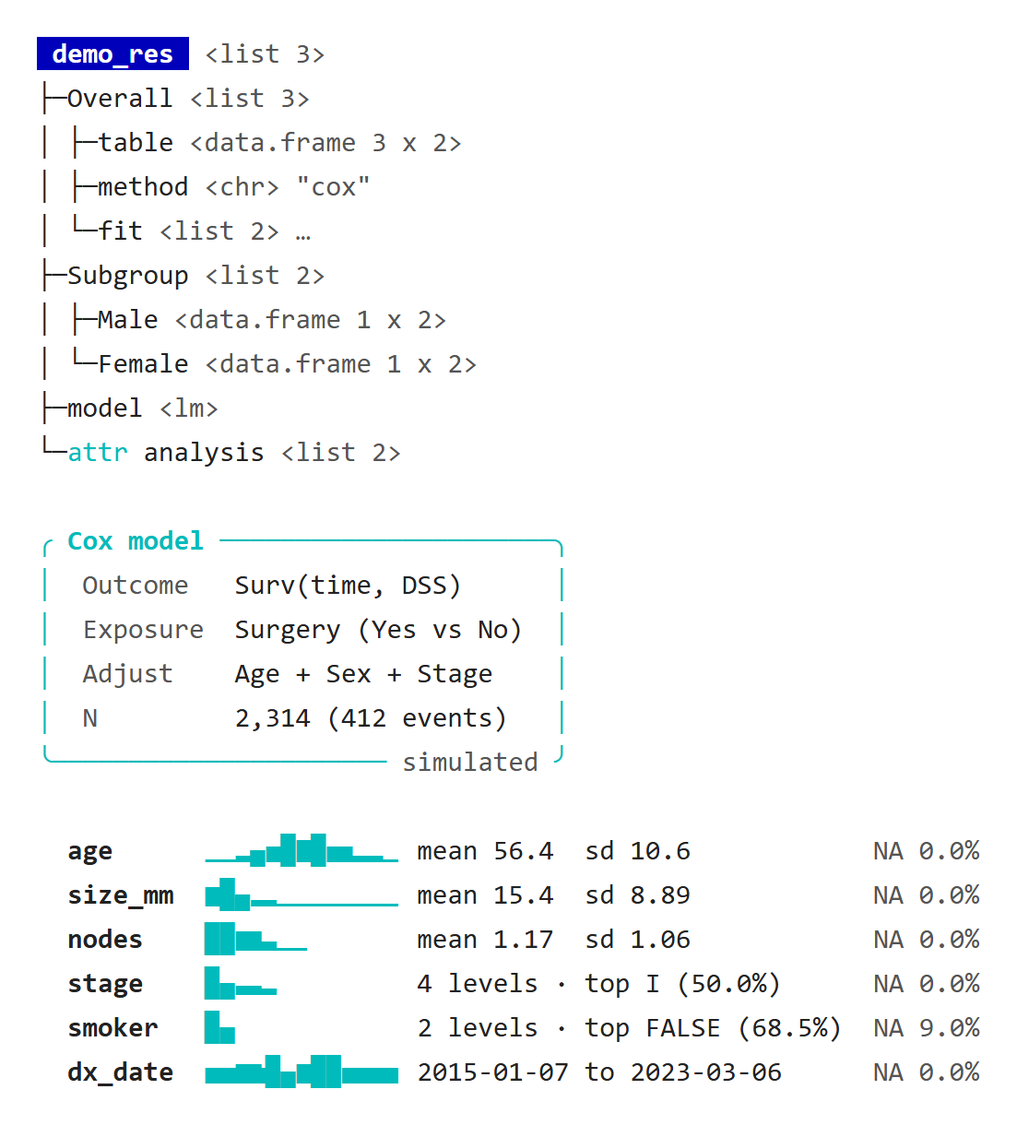
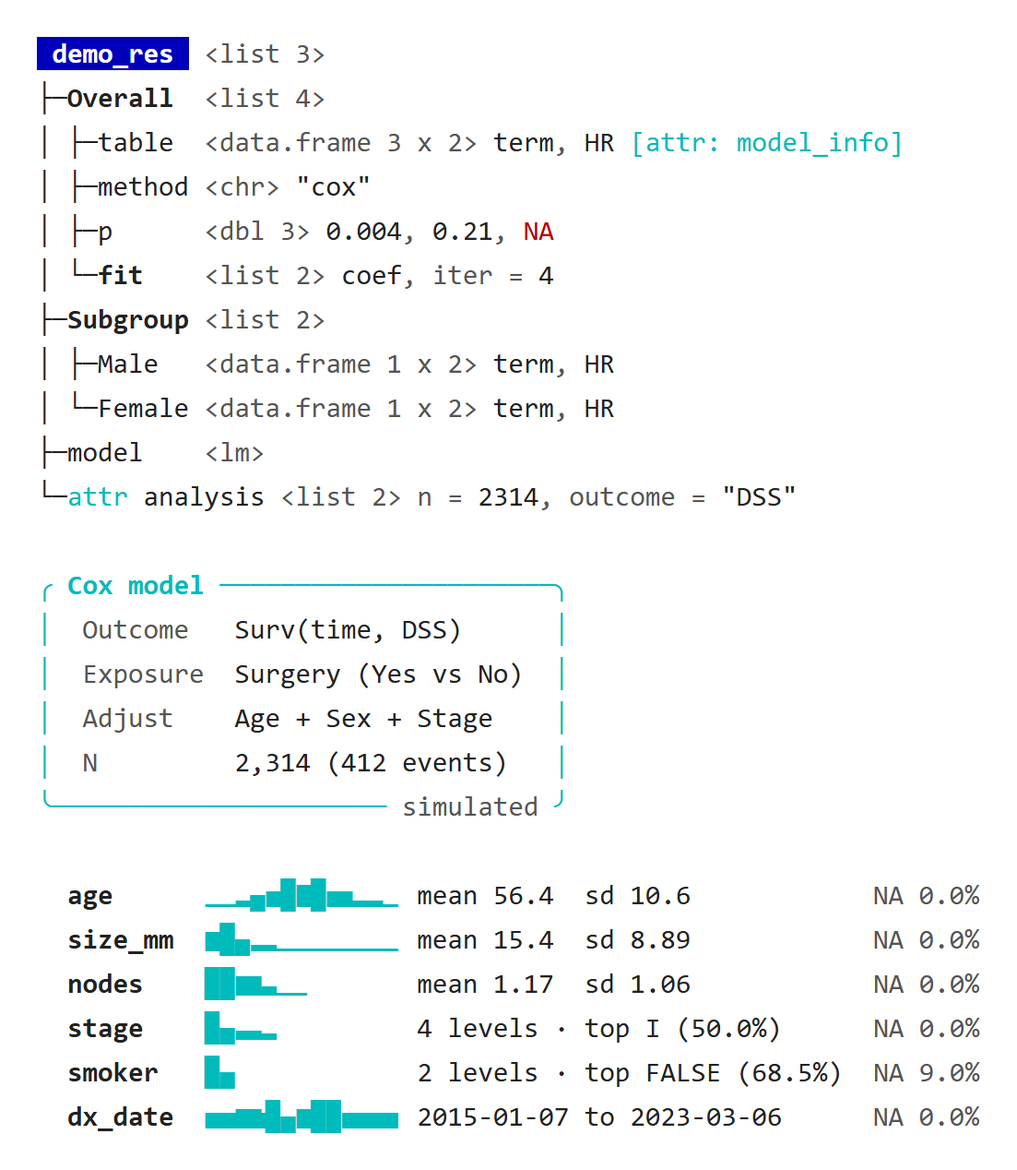
Bring the pr_tree() section up to UtilsR 0.6.12
The structure page still described a grey description, a 40-character
preview and an ellipsis for closed lists, and its screenshots showed the
0.6.10 output. The section now covers the opened root, column and list
previews, aligned names, value colours, vctrs types and attribute tags;
the example adds an attribute and a missing value, and both screenshots
are redone with UtilsR 0b59c82 (Windows and WSL plain output identical).
The section index and the homepage entry say so.

diff --git a/docs/console-print/structure-summary.html b/docs/console-print/structure-summary.html
@@ -1173,37 +1173,40 @@ pre > code.sourceCode > span > a:first-child::before { text-decoration: underlin
 <div class="code-copy-outer-scaffold"><div class="sourceCode" id="cb1"><pre class="sourceCode r code-with-copy"><code class="sourceCode r"><span id="cb1-1"><a href="#cb1-1" aria-hidden="true" tabindex="-1"></a><span class="fu">library</span>(UtilsR)</span>
 <span id="cb1-2"><a href="#cb1-2" aria-hidden="true" tabindex="-1"></a></span>
 <span id="cb1-3"><a href="#cb1-3" aria-hidden="true" tabindex="-1"></a>res <span class="ot">&lt;-</span> <span class="fu">structure</span>(</span>
-<span id="cb1-4"><a href="#cb1-4" aria-hidden="true" tabindex="-1"></a>  <span class="fu">list</span>(<span class="at">Overall =</span> <span class="fu">list</span>(<span class="at">table =</span> <span class="fu">data.frame</span>(<span class="at">term =</span> <span class="fu">c</span>(<span class="st">"Age"</span>, <span class="st">"Sex"</span>, <span class="st">"Stage"</span>),</span>
-<span id="cb1-5"><a href="#cb1-5" aria-hidden="true" tabindex="-1"></a>                                         <span class="at">HR =</span> <span class="fu">c</span>(<span class="fl">1.85</span>, <span class="fl">1.25</span>, <span class="fl">0.97</span>)),</span>
-<span id="cb1-6"><a href="#cb1-6" aria-hidden="true" tabindex="-1"></a>                      <span class="at">method =</span> <span class="st">"cox"</span>,</span>
-<span id="cb1-7"><a href="#cb1-7" aria-hidden="true" tabindex="-1"></a>                      <span class="at">fit =</span> <span class="fu">list</span>(<span class="at">coef =</span> <span class="fu">c</span>(<span class="fl">0.62</span>, <span class="fl">0.22</span>, <span class="sc">-</span><span class="fl">0.03</span>), <span class="at">iter =</span> <span class="dv">4</span>L)),</span>
-<span id="cb1-8"><a href="#cb1-8" aria-hidden="true" tabindex="-1"></a>       <span class="at">Subgroup =</span> <span class="fu">list</span>(<span class="at">Male =</span> <span class="fu">data.frame</span>(<span class="at">term =</span> <span class="st">"Age"</span>, <span class="at">HR =</span> <span class="fl">1.7</span>),</span>
-<span id="cb1-9"><a href="#cb1-9" aria-hidden="true" tabindex="-1"></a>                       <span class="at">Female =</span> <span class="fu">data.frame</span>(<span class="at">term =</span> <span class="st">"Age"</span>, <span class="at">HR =</span> <span class="fl">2.0</span>)),</span>
-<span id="cb1-10"><a href="#cb1-10" aria-hidden="true" tabindex="-1"></a>       <span class="at">model =</span> <span class="fu">lm</span>(mpg <span class="sc">~</span> wt, <span class="at">data =</span> mtcars)),</span>
-<span id="cb1-11"><a href="#cb1-11" aria-hidden="true" tabindex="-1"></a>  <span class="at">class =</span> <span class="fu">c</span>(<span class="st">"demo_res"</span>, <span class="st">"list"</span>),</span>
-<span id="cb1-12"><a href="#cb1-12" aria-hidden="true" tabindex="-1"></a>  <span class="at">analysis =</span> <span class="fu">list</span>(<span class="at">n =</span> <span class="dv">2314</span>L, <span class="at">outcome =</span> <span class="st">"DSS"</span>))</span>
-<span id="cb1-13"><a href="#cb1-13" aria-hidden="true" tabindex="-1"></a><span class="fu">pr_tree</span>(res, <span class="at">max_depth =</span> <span class="dv">2</span>)</span>
-<span id="cb1-14"><a href="#cb1-14" aria-hidden="true" tabindex="-1"></a></span>
-<span id="cb1-15"><a href="#cb1-15" aria-hidden="true" tabindex="-1"></a><span class="fu">pr_box</span>(<span class="fu">list</span>(<span class="at">Outcome =</span> <span class="st">"Surv(time, DSS)"</span>, <span class="at">Exposure =</span> <span class="st">"Surgery (Yes vs No)"</span>,</span>
-<span id="cb1-16"><a href="#cb1-16" aria-hidden="true" tabindex="-1"></a>            <span class="at">Adjust =</span> <span class="st">"Age + Sex + Stage"</span>, <span class="at">N =</span> <span class="st">"2,314 (412 events)"</span>),</span>
-<span id="cb1-17"><a href="#cb1-17" aria-hidden="true" tabindex="-1"></a>       <span class="at">header =</span> <span class="st">"Cox model"</span>, <span class="at">footer =</span> <span class="st">"simulated"</span>)</span>
-<span id="cb1-18"><a href="#cb1-18" aria-hidden="true" tabindex="-1"></a></span>
-<span id="cb1-19"><a href="#cb1-19" aria-hidden="true" tabindex="-1"></a><span class="fu">set.seed</span>(<span class="dv">1</span>)</span>
-<span id="cb1-20"><a href="#cb1-20" aria-hidden="true" tabindex="-1"></a>df <span class="ot">&lt;-</span> <span class="fu">data.frame</span>(</span>
-<span id="cb1-21"><a href="#cb1-21" aria-hidden="true" tabindex="-1"></a>  <span class="at">age     =</span> <span class="fu">round</span>(<span class="fu">rnorm</span>(<span class="dv">300</span>, <span class="dv">56</span>, <span class="dv">11</span>)),</span>
-<span id="cb1-22"><a href="#cb1-22" aria-hidden="true" tabindex="-1"></a>  <span class="at">size_mm =</span> <span class="fu">rlnorm</span>(<span class="dv">300</span>, <span class="fl">2.6</span>, <span class="fl">0.5</span>),</span>
-<span id="cb1-23"><a href="#cb1-23" aria-hidden="true" tabindex="-1"></a>  <span class="at">nodes   =</span> <span class="fu">rpois</span>(<span class="dv">300</span>, <span class="fl">1.2</span>),</span>
-<span id="cb1-24"><a href="#cb1-24" aria-hidden="true" tabindex="-1"></a>  <span class="at">stage   =</span> <span class="fu">factor</span>(<span class="fu">sample</span>(<span class="fu">c</span>(<span class="st">"I"</span>, <span class="st">"II"</span>, <span class="st">"III"</span>, <span class="st">"IV"</span>), <span class="dv">300</span>, <span class="cn">TRUE</span>, <span class="fu">c</span>(.<span class="dv">5</span>, .<span class="dv">25</span>, .<span class="dv">15</span>, .<span class="dv">1</span>))),</span>
-<span id="cb1-25"><a href="#cb1-25" aria-hidden="true" tabindex="-1"></a>  <span class="at">smoker  =</span> <span class="fu">sample</span>(<span class="fu">c</span>(<span class="cn">TRUE</span>, <span class="cn">FALSE</span>, <span class="cn">NA</span>), <span class="dv">300</span>, <span class="cn">TRUE</span>, <span class="fu">c</span>(.<span class="dv">3</span>, .<span class="dv">6</span>, .<span class="dv">1</span>)),</span>
-<span id="cb1-26"><a href="#cb1-26" aria-hidden="true" tabindex="-1"></a>  <span class="at">dx_date =</span> <span class="fu">as.Date</span>(<span class="st">"2015-01-01"</span>) <span class="sc">+</span> <span class="fu">sample</span>(<span class="dv">0</span><span class="sc">:</span><span class="dv">3000</span>, <span class="dv">300</span>))</span>
-<span id="cb1-27"><a href="#cb1-27" aria-hidden="true" tabindex="-1"></a><span class="fu">pr_spark</span>(df)</span></code></pre></div><button title="复制到剪贴板" class="code-copy-button"><i class="bi"></i></button></div>
+<span id="cb1-4"><a href="#cb1-4" aria-hidden="true" tabindex="-1"></a>  <span class="fu">list</span>(<span class="at">Overall =</span> <span class="fu">list</span>(<span class="at">table =</span> <span class="fu">structure</span>(</span>
+<span id="cb1-5"><a href="#cb1-5" aria-hidden="true" tabindex="-1"></a>                        <span class="fu">data.frame</span>(<span class="at">term =</span> <span class="fu">c</span>(<span class="st">"Age"</span>, <span class="st">"Sex"</span>, <span class="st">"Stage"</span>),</span>
+<span id="cb1-6"><a href="#cb1-6" aria-hidden="true" tabindex="-1"></a>                                   <span class="at">HR =</span> <span class="fu">c</span>(<span class="fl">1.85</span>, <span class="fl">1.25</span>, <span class="fl">0.97</span>)),</span>
+<span id="cb1-7"><a href="#cb1-7" aria-hidden="true" tabindex="-1"></a>                        <span class="at">model_info =</span> <span class="st">"Cox, adjusted"</span>),</span>
+<span id="cb1-8"><a href="#cb1-8" aria-hidden="true" tabindex="-1"></a>                      <span class="at">method =</span> <span class="st">"cox"</span>,</span>
+<span id="cb1-9"><a href="#cb1-9" aria-hidden="true" tabindex="-1"></a>                      <span class="at">p =</span> <span class="fu">c</span>(<span class="fl">0.004</span>, <span class="fl">0.21</span>, <span class="cn">NA</span>),</span>
+<span id="cb1-10"><a href="#cb1-10" aria-hidden="true" tabindex="-1"></a>                      <span class="at">fit =</span> <span class="fu">list</span>(<span class="at">coef =</span> <span class="fu">c</span>(<span class="fl">0.62</span>, <span class="fl">0.22</span>, <span class="sc">-</span><span class="fl">0.03</span>), <span class="at">iter =</span> <span class="dv">4</span>L)),</span>
+<span id="cb1-11"><a href="#cb1-11" aria-hidden="true" tabindex="-1"></a>       <span class="at">Subgroup =</span> <span class="fu">list</span>(<span class="at">Male =</span> <span class="fu">data.frame</span>(<span class="at">term =</span> <span class="st">"Age"</span>, <span class="at">HR =</span> <span class="fl">1.7</span>),</span>
+<span id="cb1-12"><a href="#cb1-12" aria-hidden="true" tabindex="-1"></a>                       <span class="at">Female =</span> <span class="fu">data.frame</span>(<span class="at">term =</span> <span class="st">"Age"</span>, <span class="at">HR =</span> <span class="fl">2.0</span>)),</span>
+<span id="cb1-13"><a href="#cb1-13" aria-hidden="true" tabindex="-1"></a>       <span class="at">model =</span> <span class="fu">lm</span>(mpg <span class="sc">~</span> wt, <span class="at">data =</span> mtcars)),</span>
+<span id="cb1-14"><a href="#cb1-14" aria-hidden="true" tabindex="-1"></a>  <span class="at">class =</span> <span class="fu">c</span>(<span class="st">"demo_res"</span>, <span class="st">"list"</span>),</span>
+<span id="cb1-15"><a href="#cb1-15" aria-hidden="true" tabindex="-1"></a>  <span class="at">analysis =</span> <span class="fu">list</span>(<span class="at">n =</span> <span class="dv">2314</span>L, <span class="at">outcome =</span> <span class="st">"DSS"</span>))</span>
+<span id="cb1-16"><a href="#cb1-16" aria-hidden="true" tabindex="-1"></a><span class="fu">pr_tree</span>(res, <span class="at">max_depth =</span> <span class="dv">2</span>)</span>
+<span id="cb1-17"><a href="#cb1-17" aria-hidden="true" tabindex="-1"></a></span>
+<span id="cb1-18"><a href="#cb1-18" aria-hidden="true" tabindex="-1"></a><span class="fu">pr_box</span>(<span class="fu">list</span>(<span class="at">Outcome =</span> <span class="st">"Surv(time, DSS)"</span>, <span class="at">Exposure =</span> <span class="st">"Surgery (Yes vs No)"</span>,</span>
+<span id="cb1-19"><a href="#cb1-19" aria-hidden="true" tabindex="-1"></a>            <span class="at">Adjust =</span> <span class="st">"Age + Sex + Stage"</span>, <span class="at">N =</span> <span class="st">"2,314 (412 events)"</span>),</span>
+<span id="cb1-20"><a href="#cb1-20" aria-hidden="true" tabindex="-1"></a>       <span class="at">header =</span> <span class="st">"Cox model"</span>, <span class="at">footer =</span> <span class="st">"simulated"</span>)</span>
+<span id="cb1-21"><a href="#cb1-21" aria-hidden="true" tabindex="-1"></a></span>
+<span id="cb1-22"><a href="#cb1-22" aria-hidden="true" tabindex="-1"></a><span class="fu">set.seed</span>(<span class="dv">1</span>)</span>
+<span id="cb1-23"><a href="#cb1-23" aria-hidden="true" tabindex="-1"></a>df <span class="ot">&lt;-</span> <span class="fu">data.frame</span>(</span>
+<span id="cb1-24"><a href="#cb1-24" aria-hidden="true" tabindex="-1"></a>  <span class="at">age     =</span> <span class="fu">round</span>(<span class="fu">rnorm</span>(<span class="dv">300</span>, <span class="dv">56</span>, <span class="dv">11</span>)),</span>
+<span id="cb1-25"><a href="#cb1-25" aria-hidden="true" tabindex="-1"></a>  <span class="at">size_mm =</span> <span class="fu">rlnorm</span>(<span class="dv">300</span>, <span class="fl">2.6</span>, <span class="fl">0.5</span>),</span>
+<span id="cb1-26"><a href="#cb1-26" aria-hidden="true" tabindex="-1"></a>  <span class="at">nodes   =</span> <span class="fu">rpois</span>(<span class="dv">300</span>, <span class="fl">1.2</span>),</span>
+<span id="cb1-27"><a href="#cb1-27" aria-hidden="true" tabindex="-1"></a>  <span class="at">stage   =</span> <span class="fu">factor</span>(<span class="fu">sample</span>(<span class="fu">c</span>(<span class="st">"I"</span>, <span class="st">"II"</span>, <span class="st">"III"</span>, <span class="st">"IV"</span>), <span class="dv">300</span>, <span class="cn">TRUE</span>, <span class="fu">c</span>(.<span class="dv">5</span>, .<span class="dv">25</span>, .<span class="dv">15</span>, .<span class="dv">1</span>))),</span>
+<span id="cb1-28"><a href="#cb1-28" aria-hidden="true" tabindex="-1"></a>  <span class="at">smoker  =</span> <span class="fu">sample</span>(<span class="fu">c</span>(<span class="cn">TRUE</span>, <span class="cn">FALSE</span>, <span class="cn">NA</span>), <span class="dv">300</span>, <span class="cn">TRUE</span>, <span class="fu">c</span>(.<span class="dv">3</span>, .<span class="dv">6</span>, .<span class="dv">1</span>)),</span>
+<span id="cb1-29"><a href="#cb1-29" aria-hidden="true" tabindex="-1"></a>  <span class="at">dx_date =</span> <span class="fu">as.Date</span>(<span class="st">"2015-01-01"</span>) <span class="sc">+</span> <span class="fu">sample</span>(<span class="dv">0</span><span class="sc">:</span><span class="dv">3000</span>, <span class="dv">300</span>))</span>
+<span id="cb1-30"><a href="#cb1-30" aria-hidden="true" tabindex="-1"></a><span class="fu">pr_spark</span>(df)</span></code></pre></div><button title="复制到剪贴板" class="code-copy-button"><i class="bi"></i></button></div>
 <div class="tabset-margin-container"></div><div class="panel-tabset">
 <ul class="nav nav-tabs" role="tablist"><li class="nav-item" role="presentation"><a class="nav-link active" id="tabset-1-1-tab" data-bs-toggle="tab" data-bs-target="#tabset-1-1" role="tab" aria-controls="tabset-1-1" aria-selected="true" href="" aria-current="page">彩色终端</a></li><li class="nav-item" role="presentation"><a class="nav-link" id="tabset-1-2-tab" data-bs-toggle="tab" data-bs-target="#tabset-1-2" role="tab" aria-controls="tabset-1-2" aria-selected="false" href="">无色日志</a></li></ul>
 <div class="tab-content">
 <div id="tabset-1-1" class="tab-pane active" role="tabpanel" aria-labelledby="tabset-1-1-tab">
 <div class="quarto-figure quarto-figure-center">
 <figure class="figure">
-<p><img src="images/structure-color.png" class="img-fluid figure-img" alt="上部是以蓝底 demo_res 为根的结构树，列出 Overall、Subgroup、model 和青色 attr analysis，fit 后有省略号；中部是青色圆角框，顶边写 Cox model、底边写 simulated，框内四行键值；下部是六列的青色迷你分布条，右侧为均值与标准差、水平数与最多水平或日期范围，最右为缺失比例。" loading="lazy" decoding="async" width="1103" height="1220" srcset="../assets/figure-previews/40d56f7a3e6ced7307cc08a0e84da2a6.webp"></p>
+<p><img src="images/structure-color.png" class="img-fluid figure-img" alt="上部是以蓝底 demo_res 为根的结构树：同层名字对齐，Overall、Subgroup 和 fit 加粗；table 后列出列名 term、HR，行尾为青色 attr: model_info；p 的缺失值 NA 为红色；fit 预览为 coef, iter = 4；末行青色 attr analysis 预览 n = 2314 与 outcome。中部是青色圆角框，顶边写 Cox model、底边写 simulated，框内四行键值；下部是六列的青色迷你分布条，右侧为均值与标准差、水平数与最多水平或日期范围，最右为缺失比例。" loading="lazy" decoding="async" width="1103" height="1268" srcset="../assets/figure-previews/fc579bac2a26df2f248ff8681e9c3dc2.webp"></p>
 <figcaption>结构树、摘要框和迷你分布的彩色输出。</figcaption>
 </figure>
 </div>
@@ -1212,7 +1215,7 @@ pre > code.sourceCode > span > a:first-child::before { text-decoration: underlin
 <div id="tabset-1-2" class="tab-pane" role="tabpanel" aria-labelledby="tabset-1-2-tab">
 <div class="quarto-figure quarto-figure-center">
 <figure class="figure">
-<p><img src="images/structure-plain.png" class="img-fluid figure-img" alt="同一示例的无色输出，根节点为 尖括号包住的 demo_res 与 list 3，树线、圆角框和分布条的字符不变。" loading="lazy" decoding="async" width="1101" height="1213" srcset="../assets/figure-previews/7c23a5c4a6c145d9ca498879b4b8d3b1.webp"></p>
+<p><img src="images/structure-plain.png" class="img-fluid figure-img" alt="同一示例的无色输出，根节点为尖括号包住的 demo_res 与 list 3；名字的对齐、树线、圆角框和分布条的字符不变。" loading="lazy" decoding="async" width="1101" height="1261" srcset="../assets/figure-previews/d3c40d0bc7c678cc0c85cdaae5e1597c.webp"></p>
 <figcaption>无色输出：根节点写成尖括号类名。</figcaption>
 </figure>
 </div>
@@ -1220,17 +1223,19 @@ pre > code.sourceCode > span > a:first-child::before { text-decoration: underlin
 </div>
 </div>
 </div>
-<p>示例的内容都不长，40 列时的输出与 80 列相同。<code>pr_box()</code> 的内容超出宽度时会折行；<code>pr_tree()</code> 和 <code>pr_spark()</code> 不折行。</p>
+<p>40 列时，<code>pr_tree()</code> 按剩余宽度截短预览，放不下的行以省略号结尾；<code>pr_box()</code> 的内容超出宽度时会折行；<code>pr_spark()</code> 不折行，输出与 80 列相同。</p>
 </section>
 <section id="pr-tree" class="level2">
 <h2 class="anchored" data-anchor-id="pr-tree">pr_tree()：结构树</h2>
-<p><code>pr_tree(x, max_depth = 3, max_items = 20, max_lines = 200, attrs = TRUE)</code> 把列表形式的结果画成树，每个元素后面跟一句灰色描述，比 <code>str()</code> 更容易看清嵌套结果的组成。</p>
+<p><code>pr_tree(x, max_depth = 3, max_items = 20, max_lines = 200, attrs = TRUE)</code> 把列表形式的结果画成树，每个元素后面跟一句描述，比 <code>str()</code> 更容易看清嵌套结果的组成。以下按 UtilsR 0.6.12（<code>0b59c82</code>）的输出，除截断提速外都是 0.6.12 新改的写法。</p>
 <ul>
-<li>会展开普通列表，以及同时继承 <code>"list"</code> 的类对象（如 <code>c("eff_res", "list")</code>）。数据框、模型、图形等其他对象作为叶子，只写类型和大小，例如 <code>&lt;data.frame 3 x 2&gt;</code>、<code>&lt;lm&gt;</code>。</li>
-<li>原子向量写出类型、长度和前几个值，如 <code>&lt;chr&gt; "cox"</code>、<code>&lt;chr 3&gt; "Age", "Sex", "Stage"</code>：最多取前 10 个值，预览截到 40 个字符。</li>
-<li><code>max_depth</code> 控制展开的层数；停在这一层、还没展开的列表后面加省略号，示例里的 <code>fit</code> 就是这样。</li>
-<li>每个节点最多列 <code>max_items</code> 个元素，其余写成 <code>… n more</code>；整棵树最多 <code>max_lines</code> 行，超出的行数写在末尾。到了 <code>max_lines</code> 后只计数、不再描述，层层嵌套的大列表也能马上打出前几行（0.6.12 起；20 × 20 × 20 的列表打印 200 行从 2.5 s 降到 0.07 s）。</li>
-<li><code>attrs = TRUE</code> 时，除名称、类、维度、行名和 srcref 以外的属性也列出来，标为青色 <code>attr</code>，示例里的 <code>analysis</code> 就是属性。</li>
+<li>传入的对象本身总是展开：<code>pr_tree(fit)</code> 列出模型的各个组件，数据框列出各列，S4 对象列出各个槽（写成 <code>@name</code>）。再往下只展开普通列表，以及同时继承 <code>"list"</code> 的类对象（如 <code>c("eff_res", "list")</code>）；数据框、模型、图形等其他对象作为叶子，例如示例里的 <code>&lt;lm&gt;</code>。</li>
+<li>原子向量写出类型、长度和值，如 <code>&lt;chr&gt; "cox"</code>、<code>&lt;dbl 3&gt; 0.004, 0.21, NA</code>：整数照原样，小数取 3 位有效数字但保留整数部分（<code>1234.5678</code> 写成 <code>1235</code>）。有名字的向量写成 <code>train = 800, test = 200</code>，带值标签的写成 <code>1 [Male]</code>，因子注明水平数，如 <code>&lt;fct 4, 3 levels&gt;</code>。值显示到行尾为止，取不完时以省略号结尾。</li>
+<li>类型缩写与 vctrs 一致，如 <code>&lt;drtn 2&gt;</code>（时间差）、<code>&lt;dbl+lbl 3&gt;</code>（带值标签的向量）、<code>&lt;int matrix 2 x 3&gt;</code>；公式、调用写出原文，函数写出前 4 个参数，如 <code>&lt;fn(data, formula, ...)&gt;</code>。</li>
+<li>不展开的节点也预览内容：数据框列出列名（示例的 <code>table</code>）；列表列出元素名，单个原子值写出取值（示例的 <code>fit</code> 写成 <code>coef, iter = 4</code>），没有名字的列表才只加省略号。</li>
+<li>同一层的名字补齐到同一宽度（最多 18 个字符），描述从同一列开始。类型和大小是灰色，值用正常文字色，<code>NA</code> 标红，有子节点的名字加粗。</li>
+<li><code>max_depth</code> 控制展开的层数。每个节点最多列 <code>max_items</code> 个元素，其余写成 <code>… n more: e6, e7, …</code>，列出被略过的名字；整棵树最多 <code>max_lines</code> 行，末尾写明剩下的行数和截断它的参数，如 <code># … 340 more lines (max_lines = 200)</code>。到了 <code>max_lines</code> 后只计数、不再描述，层层嵌套的大列表也能马上打出前几行（20 × 20 × 20 的列表打印 200 行从 2.5 s 降到 0.07 s）。</li>
+<li><code>attrs = TRUE</code> 时，除名称、类、维度、行名、srcref 和类型自带的属性（因子水平、时区、值标签等）以外，其余属性都会标出：展开的节点下另起一行，标为青色 <code>attr</code>，同样预览名字和单值（示例的 <code>analysis</code>）；不展开的节点在行尾写 <code>[attr: 名字]</code>（示例的 <code>model_info</code>），如图形上的 <code>[attr: plot_size]</code>。</li>
 </ul>
 </section>
 <section id="pr-box" class="level2">
@@ -1314,6 +1319,7 @@ pre > code.sourceCode > span > a:first-child::before { text-decoration: underlin
 <div class="callout-body-container callout-body">
 <ul>
 <li>2026-10-25：按 UtilsR 0.6.12 补充 <a href="#pr-tree">pr_tree()</a> 截断提速、<a href="#pr-box">pr_box()</a> 空输入与 <a href="#pr-spark">pr_spark()</a> 标识列。</li>
+<li>2026-10-25：按 UtilsR 0.6.12（<code>0b59c82</code>）重写 <a href="#pr-tree">pr_tree()</a> 的说明；示例加入属性与缺失值，重做截图。</li>
 </ul>
 </div>
 </div>

diff --git a/docs/index.html b/docs/index.html
@@ -1752,7 +1752,7 @@ ul.task-list li input[type="checkbox"] {
 <td style="text-align: left;">打印信息</td>
 <td style="text-align: left;">2026-10-25</td>
 </tr>
-<tr class="even" data-keywords="Surgery Surv as.Date c data.frame factor library list lm pr_box pr_kv pr_spark pr_tree rlnorm rnorm round rpois sample set.seed str structure">
+<tr class="even" data-keywords="Surgery Surv as.Date c data.frame factor fn library lines list lm pr_box pr_kv pr_spark pr_tree rlnorm rnorm round rpois sample set.seed str structure">
 <td style="text-align: left;">打印信息</td>
 <td style="text-align: left;"><a href="./console-print/structure-summary.html">结构树、摘要框与分布：pr_tree / pr_box / pr_spark</a></td>
 <td style="text-align: left;">打印信息</td>
@@ -1789,7 +1789,7 @@ ul.task-list li input[type="checkbox"] {
 <section id="recent-updates" class="level2 unnumbered">
 <h2 class="unnumbered anchored" data-anchor-id="recent-updates">近期更新</h2>
 <ul>
-<li><strong>2026-10-25</strong>：新增<a href="./console-print/index.html">打印信息</a>栏目，与 R 问题排查并列：分 8 页说明 UtilsR 的 <code>pr_*</code> 结果打印构件、<a href="./console-print/table-pvalue.html"><code>pr_table()</code> 的 P 值与省略规则</a>、<a href="./console-print/runtime-messages.html"><code>.cat_message()</code> / <code>.cat_step()</code> 运行提示</a>、<a href="./console-print/package-print-methods.html">各包结果类的打印</a>、<a href="./console-print/write-print-method.html">编写 print 方法与测试</a>和<a href="./console-print/display-issues.html">常见显示问题</a>；示例在 Windows / WSL R 4.4.3 运行，各包实例仅在 Windows 运行。当天随 UtilsR 0.6.12 修订：<code>timestamp_format = NULL</code> / <code>""</code> 不加时间戳，<a href="./console-print/table-pvalue.html#width"><code>pr_table()</code></a> 的临界 P 值、<code>rownames</code> 与首列截短，<code>pr_kv()</code> / <code>pr_head()</code> 的数字位数，<code>pr_note()</code> 换行和 <code>pr_spark()</code> 标识列。</li>
+<li><strong>2026-10-25</strong>：新增<a href="./console-print/index.html">打印信息</a>栏目，与 R 问题排查并列：分 8 页说明 UtilsR 的 <code>pr_*</code> 结果打印构件、<a href="./console-print/table-pvalue.html"><code>pr_table()</code> 的 P 值与省略规则</a>、<a href="./console-print/runtime-messages.html"><code>.cat_message()</code> / <code>.cat_step()</code> 运行提示</a>、<a href="./console-print/package-print-methods.html">各包结果类的打印</a>、<a href="./console-print/write-print-method.html">编写 print 方法与测试</a>和<a href="./console-print/display-issues.html">常见显示问题</a>；示例在 Windows / WSL R 4.4.3 运行，各包实例仅在 Windows 运行。当天随 UtilsR 0.6.12 修订：<code>timestamp_format = NULL</code> / <code>""</code> 不加时间戳，<a href="./console-print/table-pvalue.html#width"><code>pr_table()</code></a> 的临界 P 值、<code>rownames</code> 与首列截短，<code>pr_kv()</code> / <code>pr_head()</code> 的数字位数，<code>pr_note()</code> 换行和 <code>pr_spark()</code> 标识列；<a href="./console-print/structure-summary.html#pr-tree"><code>pr_tree()</code></a> 改为展开传入的对象、预览列名与列表内容、对齐名字并把值与类型分色。</li>
 <li><strong>2026-10-25</strong>：<a href="./utilsr/flow-guide.html#distribution-lists-20261025">分布图</a>迁移到五组 list 控制，补齐 labelled 显示、标签换行与堆积顺序；<a href="./regr/flow-guide.html#all-preprocess-20261024">get_all 队列流程</a>同步新参数，保留逐步人数核对。</li>
 <li><strong>2026-10-25</strong>：<a href="./utilsr/factor-guide.html#zero-reference-20261025">因子</a>与<a href="./regr/interaction-guide.html#reference-print-20261025">交互</a>明确数值 ref_idx=0 不合并，多水平分层与二分类暴露限制分别说明；<a href="./utilsr/missing-guide.html#environment-20261025">环境诊断</a>更新 check_packages 名称、失败 Total、实时可用内存和 GiB 单位。</li>
 <li><strong>2026-10-25</strong>：<a href="./mlr/imp-guide.html#labels-shares-20261025">MLR 重要性</a>新增六张原生 PDF，比较 label_args 换行、Top N 完整分母和先缩放再重排；<a href="./mlr/index.html#updates-20261025">概览</a>同步当前 38 张图。</li>

diff --git a/console-print/images/structure-color.html b/console-print/images/structure-color.html
@@ -1,13 +1,14 @@
 <!doctype html><meta charset="utf-8"><style>body{margin:0;background:white;color:#222}pre{margin:0;padding:20px;font:15px/1.6 Consolas,"DejaVu Sans Mono",monospace;white-space:pre;display:inline-block}.w1,.w2{display:inline-block;vertical-align:top}.w1{width:1ch}.w2{width:2ch}</style><pre data-native-console><span style='color: #FFFFFF; background-color: #0000BB; font-weight: bold;'> demo_res </span> <span style='color: #555555;'>&lt;list 3&gt;</span>
-├─Overall <span style='color: #555555;'>&lt;list 3&gt;</span>
-│ ├─table <span style='color: #555555;'>&lt;data.frame 3 x 2&gt;</span>
-│ ├─method <span style='color: #555555;'>&lt;chr&gt; "cox"</span>
-│ └─fit <span style='color: #555555;'>&lt;list 2&gt;</span> <span style='color: #555555;'><span class="w1">…</span></span>
-├─Subgroup <span style='color: #555555;'>&lt;list 2&gt;</span>
-│ ├─Male <span style='color: #555555;'>&lt;data.frame 1 x 2&gt;</span>
-│ └─Female <span style='color: #555555;'>&lt;data.frame 1 x 2&gt;</span>
-├─model <span style='color: #555555;'>&lt;lm&gt;</span>
-└─<span style='color: #00BBBB;'>attr</span> analysis <span style='color: #555555;'>&lt;list 2&gt;</span>
+├─<span style='font-weight: bold;'>Overall</span>  <span style='color: #555555;'>&lt;list 4&gt;</span>
+│ ├─table  <span style='color: #555555;'>&lt;data.frame 3 x 2&gt;</span> term<span style='color: #555555;'>, </span>HR <span style='color: #00BBBB;'>[attr: model_info]</span>
+│ ├─method <span style='color: #555555;'>&lt;chr&gt;</span> "cox"
+│ ├─p      <span style='color: #555555;'>&lt;dbl 3&gt;</span> 0.004<span style='color: #555555;'>, </span>0.21<span style='color: #555555;'>, </span><span style='color: #BB0000;'>NA</span>
+│ └─<span style='font-weight: bold;'>fit</span>    <span style='color: #555555;'>&lt;list 2&gt;</span> coef<span style='color: #555555;'>, iter =</span> 4
+├─<span style='font-weight: bold;'>Subgroup</span> <span style='color: #555555;'>&lt;list 2&gt;</span>
+│ ├─Male   <span style='color: #555555;'>&lt;data.frame 1 x 2&gt;</span> term<span style='color: #555555;'>, </span>HR
+│ └─Female <span style='color: #555555;'>&lt;data.frame 1 x 2&gt;</span> term<span style='color: #555555;'>, </span>HR
+├─model    <span style='color: #555555;'>&lt;lm&gt;</span>
+└─<span style='color: #00BBBB;'>attr</span> analysis <span style='color: #555555;'>&lt;list 2&gt;</span> <span style='color: #555555;'>n =</span> 2314<span style='color: #555555;'>, outcome =</span> "DSS"
 
 <span style='color: #00BBBB;'>╭ </span><span style='color: #00BBBB; font-weight: bold;'>Cox model</span><span style='color: #00BBBB;'> ──────────────────────╮</span>
 <span style='color: #00BBBB;'>│</span>  <span style='color: #555555;'>Outcome </span>  Surv(time, DSS)      <span style='color: #00BBBB;'>│</span>

diff --git a/docs/console-print/images/structure-color.html b/docs/console-print/images/structure-color.html
@@ -1,13 +1,14 @@
 <!doctype html><meta charset="utf-8"><style>body{margin:0;background:white;color:#222}pre{margin:0;padding:20px;font:15px/1.6 Consolas,"DejaVu Sans Mono",monospace;white-space:pre;display:inline-block}.w1,.w2{display:inline-block;vertical-align:top}.w1{width:1ch}.w2{width:2ch}</style><pre data-native-console><span style='color: #FFFFFF; background-color: #0000BB; font-weight: bold;'> demo_res </span> <span style='color: #555555;'>&lt;list 3&gt;</span>
-├─Overall <span style='color: #555555;'>&lt;list 3&gt;</span>
-│ ├─table <span style='color: #555555;'>&lt;data.frame 3 x 2&gt;</span>
-│ ├─method <span style='color: #555555;'>&lt;chr&gt; "cox"</span>
-│ └─fit <span style='color: #555555;'>&lt;list 2&gt;</span> <span style='color: #555555;'><span class="w1">…</span></span>
-├─Subgroup <span style='color: #555555;'>&lt;list 2&gt;</span>
-│ ├─Male <span style='color: #555555;'>&lt;data.frame 1 x 2&gt;</span>
-│ └─Female <span style='color: #555555;'>&lt;data.frame 1 x 2&gt;</span>
-├─model <span style='color: #555555;'>&lt;lm&gt;</span>
-└─<span style='color: #00BBBB;'>attr</span> analysis <span style='color: #555555;'>&lt;list 2&gt;</span>
+├─<span style='font-weight: bold;'>Overall</span>  <span style='color: #555555;'>&lt;list 4&gt;</span>
+│ ├─table  <span style='color: #555555;'>&lt;data.frame 3 x 2&gt;</span> term<span style='color: #555555;'>, </span>HR <span style='color: #00BBBB;'>[attr: model_info]</span>
+│ ├─method <span style='color: #555555;'>&lt;chr&gt;</span> "cox"
+│ ├─p      <span style='color: #555555;'>&lt;dbl 3&gt;</span> 0.004<span style='color: #555555;'>, </span>0.21<span style='color: #555555;'>, </span><span style='color: #BB0000;'>NA</span>
+│ └─<span style='font-weight: bold;'>fit</span>    <span style='color: #555555;'>&lt;list 2&gt;</span> coef<span style='color: #555555;'>, iter =</span> 4
+├─<span style='font-weight: bold;'>Subgroup</span> <span style='color: #555555;'>&lt;list 2&gt;</span>
+│ ├─Male   <span style='color: #555555;'>&lt;data.frame 1 x 2&gt;</span> term<span style='color: #555555;'>, </span>HR
+│ └─Female <span style='color: #555555;'>&lt;data.frame 1 x 2&gt;</span> term<span style='color: #555555;'>, </span>HR
+├─model    <span style='color: #555555;'>&lt;lm&gt;</span>
+└─<span style='color: #00BBBB;'>attr</span> analysis <span style='color: #555555;'>&lt;list 2&gt;</span> <span style='color: #555555;'>n =</span> 2314<span style='color: #555555;'>, outcome =</span> "DSS"
 
 <span style='color: #00BBBB;'>╭ </span><span style='color: #00BBBB; font-weight: bold;'>Cox model</span><span style='color: #00BBBB;'> ──────────────────────╮</span>
 <span style='color: #00BBBB;'>│</span>  <span style='color: #555555;'>Outcome </span>  Surv(time, DSS)      <span style='color: #00BBBB;'>│</span>

diff --git a/docs/console-print/index.html b/docs/console-print/index.html
@@ -1170,7 +1170,7 @@ pre > code.sourceCode > span > a:first-child::before { text-decoration: underlin
 
 
 <p>RegR、MLR、causalR 的结果对象在控制台打印时，都用 UtilsR 的同一组函数拼出来：首行是彩色的类名标签和一句摘要，下面依次是设定、分节的结果表和灰色注释。运行过程中的提示（读数据、保存文件、步骤进度）另用一组带时间戳的消息函数。本栏目逐个说明这些函数的用法、显示规则和常见问题，也给出自己写 print 方法时的做法。</p>
-<p>各页按已推送的 UtilsR 0.6.10（<code>0e4cffe</code>）核对。示例在 Windows 与 WSL 的 R 4.4.3 上实际运行，两边的无色输出逐行一致，只有步骤耗时不同。截图是真实的控制台输出转成 HTML 后的画面，每张图下都附原生 HTML。说明文字已按 UtilsR 0.6.12（2026-10-25）修订；截图仍是 0.6.10 的输出，其中 <code>pr_tree()</code> 的预览写法在 0.6.12 有变化。</p>
+<p>各页按已推送的 UtilsR 0.6.10（<code>0e4cffe</code>）核对。示例在 Windows 与 WSL 的 R 4.4.3 上实际运行，两边的无色输出逐行一致，只有步骤耗时不同。截图是真实的控制台输出转成 HTML 后的画面，每张图下都附原生 HTML。说明文字已按 UtilsR 0.6.12（2026-10-25）修订；<a href="../console-print/structure-summary.html">结构树</a>一页的截图已按 0.6.12（<code>0b59c82</code>）重做，其余截图仍是 0.6.10 的输出。</p>
 <section id="channels" class="level2">
 <h2 class="anchored" data-anchor-id="channels">两条输出通道</h2>
 <div class="table-responsive" tabindex="0" role="region" aria-label="表格，可横向滚动">

diff --git a/console-print/images/structure-plain.html b/console-print/images/structure-plain.html
@@ -1,13 +1,14 @@
 <!doctype html><meta charset="utf-8"><style>body{margin:0;background:white;color:#222}pre{margin:0;padding:20px;font:15px/1.6 Consolas,"DejaVu Sans Mono",monospace;white-space:pre;display:inline-block}.w1,.w2{display:inline-block;vertical-align:top}.w1{width:1ch}.w2{width:2ch}</style><pre data-native-console>&lt;demo_res&gt; &lt;list 3&gt;
-├─Overall &lt;list 3&gt;
-│ ├─table &lt;data.frame 3 x 2&gt;
+├─Overall  &lt;list 4&gt;
+│ ├─table  &lt;data.frame 3 x 2&gt; term, HR [attr: model_info]
 │ ├─method &lt;chr&gt; "cox"
-│ └─fit &lt;list 2&gt; <span class="w1">…</span>
+│ ├─p      &lt;dbl 3&gt; 0.004, 0.21, NA
+│ └─fit    &lt;list 2&gt; coef, iter = 4
 ├─Subgroup &lt;list 2&gt;
-│ ├─Male &lt;data.frame 1 x 2&gt;
-│ └─Female &lt;data.frame 1 x 2&gt;
-├─model &lt;lm&gt;
-└─attr analysis &lt;list 2&gt;
+│ ├─Male   &lt;data.frame 1 x 2&gt; term, HR
+│ └─Female &lt;data.frame 1 x 2&gt; term, HR
+├─model    &lt;lm&gt;
+└─attr analysis &lt;list 2&gt; n = 2314, outcome = "DSS"
 
 ╭ Cox model ──────────────────────╮
 │  Outcome   Surv(time, DSS)      │

diff --git a/docs/console-print/images/structure-plain.html b/docs/console-print/images/structure-plain.html
@@ -1,13 +1,14 @@
 <!doctype html><meta charset="utf-8"><style>body{margin:0;background:white;color:#222}pre{margin:0;padding:20px;font:15px/1.6 Consolas,"DejaVu Sans Mono",monospace;white-space:pre;display:inline-block}.w1,.w2{display:inline-block;vertical-align:top}.w1{width:1ch}.w2{width:2ch}</style><pre data-native-console>&lt;demo_res&gt; &lt;list 3&gt;
-├─Overall &lt;list 3&gt;
-│ ├─table &lt;data.frame 3 x 2&gt;
+├─Overall  &lt;list 4&gt;
+│ ├─table  &lt;data.frame 3 x 2&gt; term, HR [attr: model_info]
 │ ├─method &lt;chr&gt; "cox"
-│ └─fit &lt;list 2&gt; <span class="w1">…</span>
+│ ├─p      &lt;dbl 3&gt; 0.004, 0.21, NA
+│ └─fit    &lt;list 2&gt; coef, iter = 4
 ├─Subgroup &lt;list 2&gt;
-│ ├─Male &lt;data.frame 1 x 2&gt;
-│ └─Female &lt;data.frame 1 x 2&gt;
-├─model &lt;lm&gt;
-└─attr analysis &lt;list 2&gt;
+│ ├─Male   &lt;data.frame 1 x 2&gt; term, HR
+│ └─Female &lt;data.frame 1 x 2&gt; term, HR
+├─model    &lt;lm&gt;
+└─attr analysis &lt;list 2&gt; n = 2314, outcome = "DSS"
 
 ╭ Cox model ──────────────────────╮
 │  Outcome   Surv(time, DSS)      │
